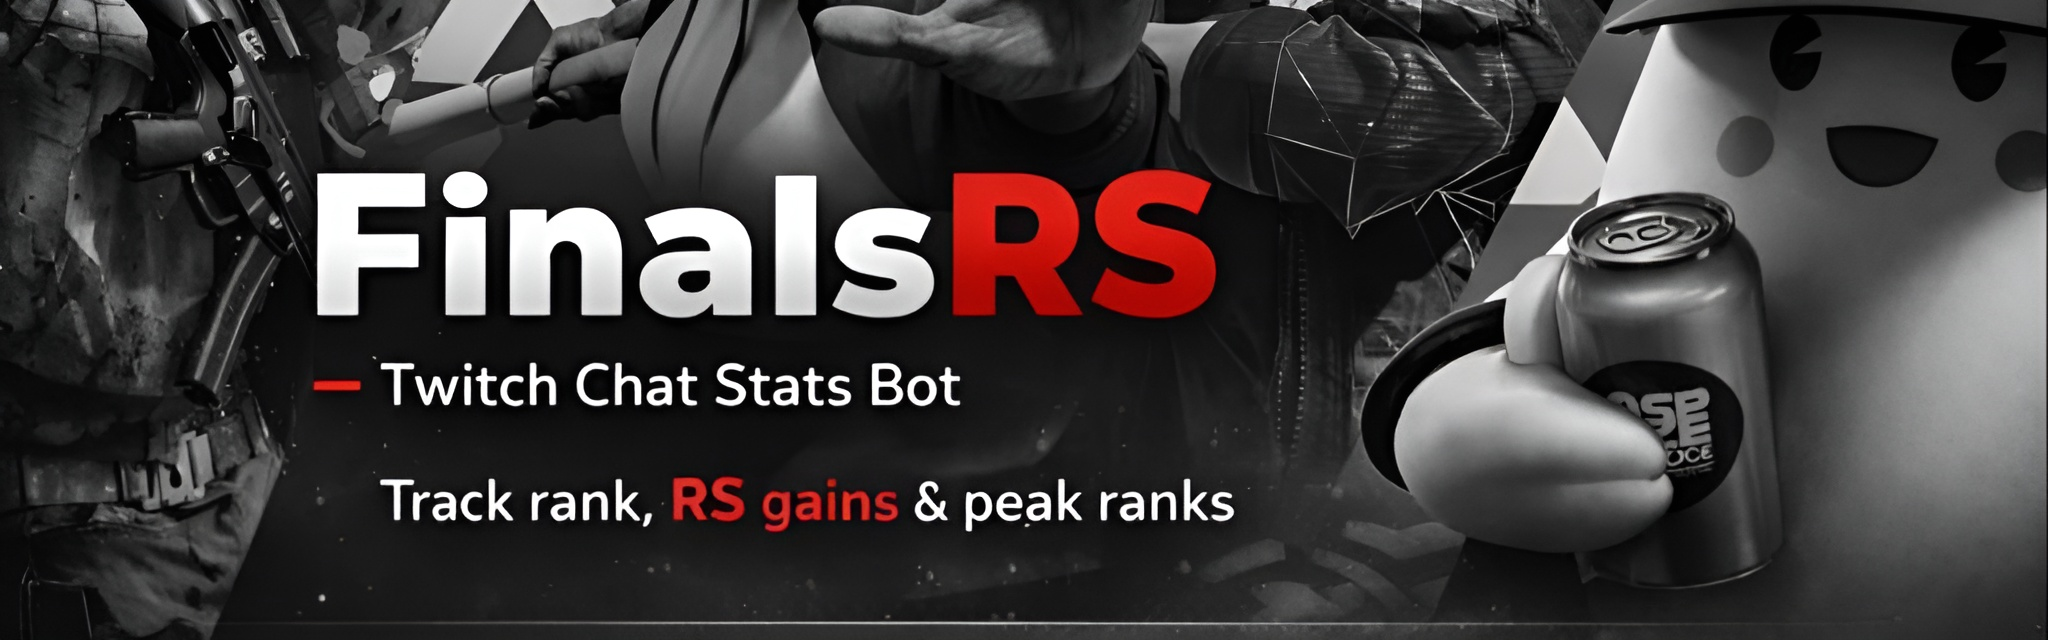
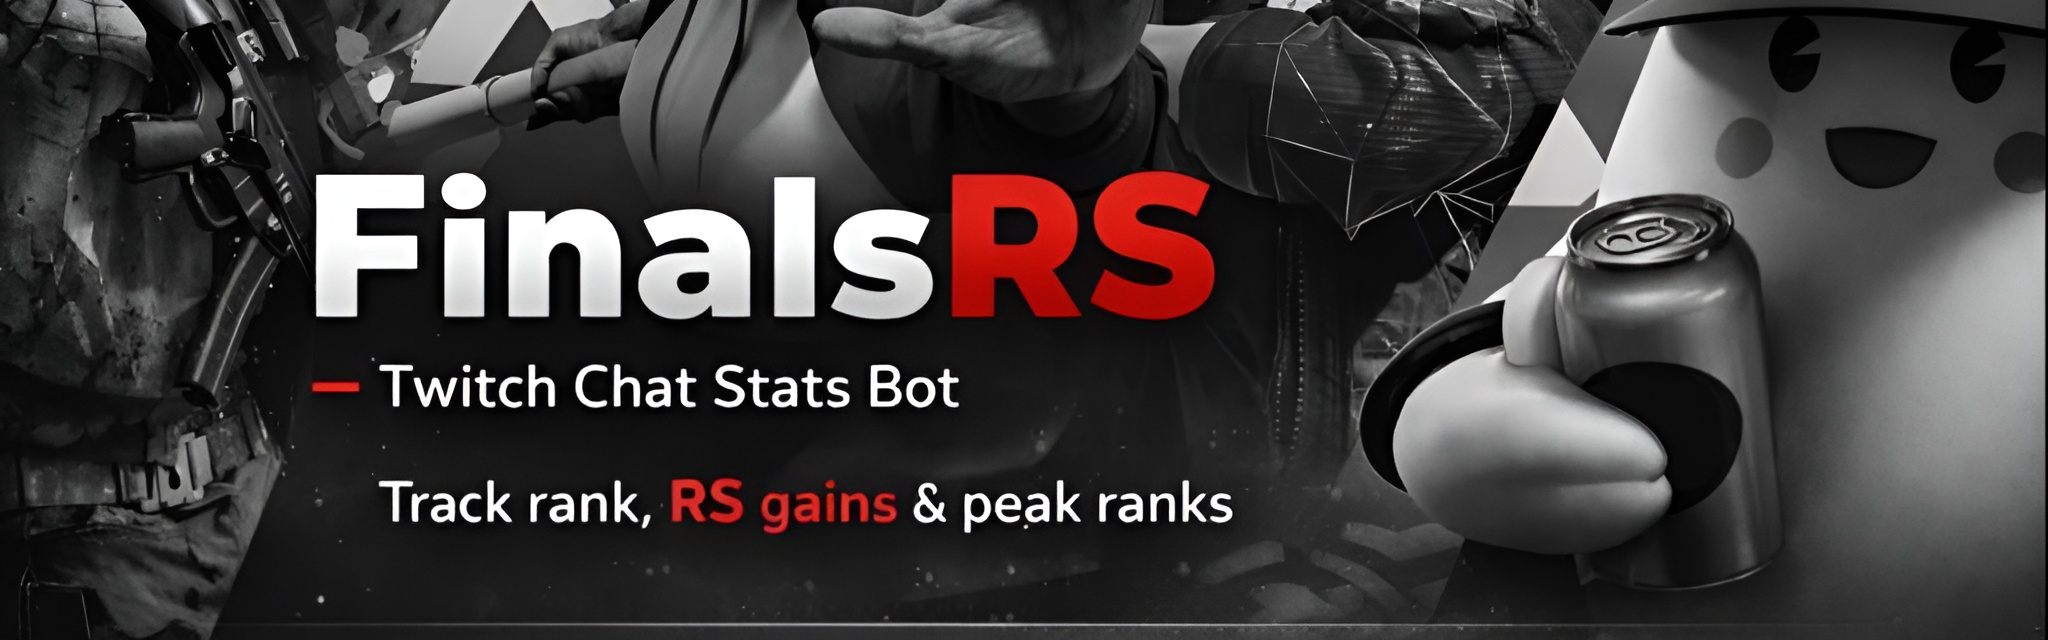
update

diff --git a/frontend/docs.html b/frontend/docs.html
@@ -33,6 +33,8 @@
       property="og:image"
       content="https://finalsrs.com/assets/finalsrr-chat-preview.png"
     />
+    <meta property="og:image:width" content="1200" />
+    <meta property="og:image:height" content="360" />
 
     <!-- Icons -->
     <link rel="icon" href="./assets/logo.png" />

diff --git a/frontend/drops.html b/frontend/drops.html
@@ -21,6 +21,8 @@
     <meta property="og:description"
         content="View current THE FINALS Twitch Drops, rewards, and how to earn them by watching eligible Twitch streams." />
     <meta property="og:image" content="https://finalsrs.com/assets/finalsrr-chat-preview.png" />
+    <meta property="og:image:width" content="1200" />
+    <meta property="og:image:height" content="360" />
 
     <!-- Twitter -->
     <meta name="twitter:card" content="summary_large_image" />

diff --git a/frontend/index.html b/frontend/index.html
@@ -37,7 +37,7 @@
       content="https://finalsrs.com/assets/finalsrr-chat-preview.png"
     />
     <meta property="og:image:width" content="1200" />
-    <meta property="og:image:height" content="630" />
+    <meta property="og:image:height" content="360" />
 
     <!-- Twitter -->
     <meta name="twitter:card" content="summary_large_image" />